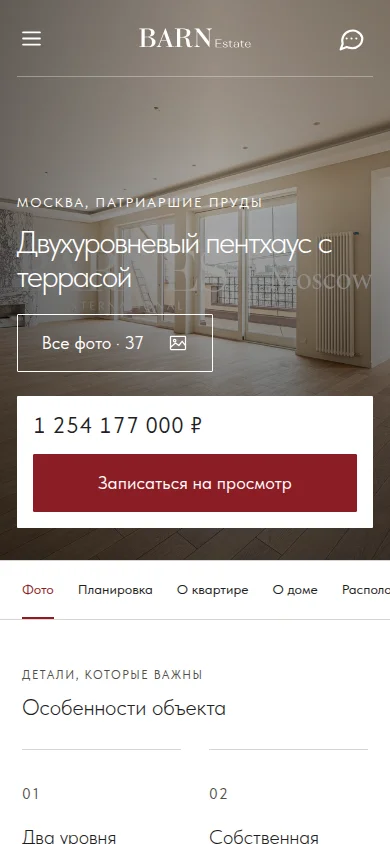
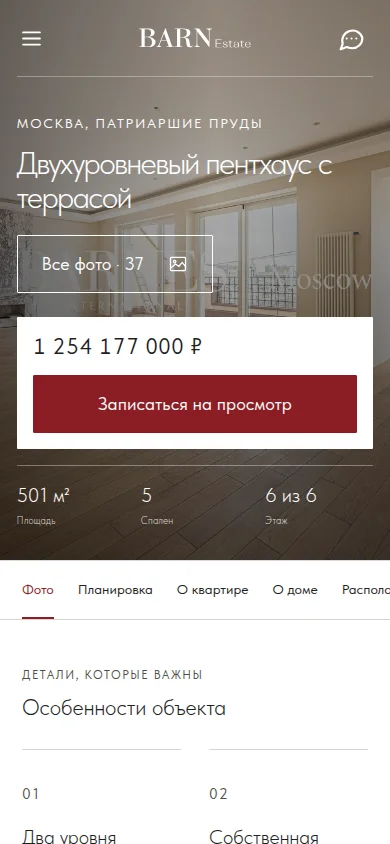
lot: publish resort-style hero property facts

diff --git a/stranitsa-lota/hero-options/index.html b/stranitsa-lota/hero-options/index.html
@@ -1,1 +1,1 @@
-<!doctype html><html lang="ru"><head><meta charset="utf-8"><meta name="viewport" content="width=device-width,initial-scale=1"><meta name="robots" content="noindex,nofollow"><title>Варианты херо — BARN Estate</title><style>@font-face{font-family:Tilda Sans;src:url('../fonts/TildaSans-Light.woff2') format('woff2');font-weight:300;font-display:swap}@font-face{font-family:Tilda Sans;src:url('../fonts/TildaSans-Regular.woff2') format('woff2');font-weight:400;font-display:swap}*{box-sizing:border-box}body{margin:0;color:#1e1e1e;background:#fff;font:300 18px/1.5 'Tilda Sans',Arial,sans-serif}a{color:inherit}header,main{max-width:1920px;margin:auto;padding-inline:clamp(24px,calc(-26.66667px + 6.59722vw),100px)}header{display:flex;align-items:center;justify-content:space-between;gap:24px;padding-block:28px;border-bottom:1px solid #d8d6d2}header img{width:172px;height:48px}header a:last-child{font-size:15px;text-underline-offset:4px}main{padding-block:72px 100px}h1{font-size:44px;line-height:1.2;font-weight:300;max-width:920px;margin:0}main>p{font-size:22px;line-height:33px;color:#4f4d49;max-width:970px;margin:24px 0 0}.eyebrow{font-size:14px;font-weight:400;letter-spacing:.12em;text-transform:uppercase;color:#4f4d49;margin:0}.quick-links{display:flex;gap:12px;flex-wrap:wrap;margin:32px 0 48px}.quick-links a{display:flex;align-items:center;justify-content:center;width:44px;height:44px;text-decoration:none;border:1px solid #8b8986;border-radius:1px;font-size:17px;font-weight:400}.cards{display:grid;grid-template-columns:1fr 1fr;gap:64px 40px}article{border-top:1px solid #d8d6d2;padding-top:24px;scroll-margin-top:24px}article:last-child{grid-column:1/-1;max-width:950px}.card-top{display:flex;align-items:center;justify-content:space-between;gap:20px}.recommend{font-size:13px;line-height:18px;color:#8b1d25}.cards h2{font-size:28px;line-height:1.2;font-weight:300;margin:20px 0 28px}.shots{display:grid;grid-template-columns:minmax(0,1fr) 88px;gap:12px;background:#f7f6f4;padding:12px;align-items:center}.shots img{width:100%;height:auto;display:block}.shots .phone{border:1px solid #d8d6d2}.description{font-size:20px;line-height:1.5;margin:24px 0 12px}.why{font-size:16px;line-height:1.5;color:#656462;margin:0 0 24px}.button{display:inline-flex;align-items:center;justify-content:space-between;gap:32px;min-height:70px;padding:16px 36px;background:#8b1d25;border:1px solid #8b1d25;border-radius:1px;font-size:17px;line-height:1.1;font-weight:400;color:#fff;text-decoration:none}.button span{font-size:22px}a:focus-visible{outline:2px solid #8b1d25;outline-offset:5px}@media(min-width:1441px){.button{font-size:19px;padding-inline:47px}}@media(max-width:900px){.cards{grid-template-columns:1fr;gap:48px}.cards article:last-child{grid-column:auto}}@media(max-width:540px){header,main{padding-inline:22px}header{padding-block:20px;gap:16px}header img{width:130px;height:36px}header a:last-child{font-size:13px}main{padding-block:48px}h1{font-size:22px}.eyebrow{font-size:12px}main>p{font-size:15px;line-height:21px;margin-top:16px}.quick-links{margin-bottom:32px}.cards h2{font-size:22px;margin-block:16px 24px}.shots{display:block;padding:0}.shots .phone{display:none}.description{font-size:17px;margin-top:20px}.why{font-size:15px}.button{width:100%;min-height:58px;padding:14px 24px;font-size:18px}}@media(prefers-reduced-motion:reduce){*{scroll-behavior:auto!important}}</style></head><body><header><a href="../"><img src="../kit/assets/logo.svg" alt="BARN Estate" width="172" height="48"></a><a href="../">К странице лота</a></header><main><p class="eyebrow" style="margin-bottom:24px">Страница лота · выбор первого экрана</p><h1>Пять вариантов херо с крупной фотографией</h1><p>Фотография занимает всю ширину. У варианта №3 высота совпадает с главной страницей на всех брейкпоинтах. Шрифты, цвета и кнопки — из нашего UI-кита.</p><nav class="quick-links" aria-label="Варианты херо"><a href="#variant-1" aria-label="Вариант 1">01</a><a href="#variant-2" aria-label="Вариант 2">02</a><a href="#variant-3" aria-label="Вариант 3">03</a><a href="#variant-4" aria-label="Вариант 4">04</a><a href="#variant-5" aria-label="Вариант 5">05</a></nav><div class="cards"><article id="variant-1"><div class="card-top"><p class="eyebrow">Вариант 01</p><span class="recommend">Рекомендую</span></div><h2>Текст поверх фотографии</h2><a class="shots" href="../?hero=1&amp;v=hero-options-20261110" aria-label="Открыть вариант 1: Текст поверх фотографии"><img src="previews/1-desktop.webp" width="1440" height="900" alt="Вариант 1 на компьютере" loading="lazy"><img class="phone" src="previews/1-mobile.webp" width="390" height="844" alt="Вариант 1 на телефоне" loading="lazy"></a><p class="description">Название и описание слева, цена и запись справа. Максимум фотографии и минимум отдельных панелей.</p><p class="why">Спокойный и универсальный вариант.</p><a class="button" href="../?hero=1&amp;v=hero-options-20261110">Открыть вариант 1<span aria-hidden="true">↗</span></a></article><article id="variant-2"><div class="card-top"><p class="eyebrow">Вариант 02</p></div><h2>Белая карточка</h2><a class="shots" href="../?hero=2&amp;v=hero-options-20261110" aria-label="Открыть вариант 2: Белая карточка"><img src="previews/2-desktop.webp" width="1440" height="900" alt="Вариант 2 на компьютере" loading="lazy"><img class="phone" src="previews/2-mobile.webp" width="390" height="844" alt="Вариант 2 на телефоне" loading="lazy"></a><p class="description">Фотография продолжается за карточкой с ценой, параметрами и брокером. На телефоне карточка становится компактной.</p><p class="why">Самый привычный сценарий выбора объекта.</p><a class="button" href="../?hero=2&amp;v=hero-options-20261110">Открыть вариант 2<span aria-hidden="true">↗</span></a></article><article id="variant-3"><div class="card-top"><p class="eyebrow">Вариант 03</p></div><h2>Крупный заголовок и белая полоса</h2><a class="shots" href="../?hero=3&amp;v=hero-kit-20261110" aria-label="Открыть вариант 3: Крупный заголовок и белая полоса"><img src="previews/3-desktop.webp?v=hero-kit" width="1440" height="900" alt="Вариант 3 на компьютере" loading="lazy"><img class="phone" src="previews/3-mobile.webp?v=hero-kit" width="390" height="844" alt="Вариант 3 на телефоне" loading="lazy"></a><p class="description">Крупный заголовок и кнопка всех фотографий внизу кадра. Цена, параметры и запись собраны в компактную белую полосу.</p><p class="why">Больше воздуха, одна основная кнопка и спокойная строка с параметрами.</p><a class="button" href="../?hero=3&amp;v=hero-kit-20261110">Открыть вариант 3<span aria-hidden="true">↗</span></a></article><article id="variant-4"><div class="card-top"><p class="eyebrow">Вариант 04</p></div><h2>Композиция по центру</h2><a class="shots" href="../?hero=4&amp;v=hero-options-20261110" aria-label="Открыть вариант 4: Композиция по центру"><img src="previews/4-desktop.webp" width="1440" height="900" alt="Вариант 4 на компьютере" loading="lazy"><img class="phone" src="previews/4-mobile.webp" width="390" height="844" alt="Вариант 4 на телефоне" loading="lazy"></a><p class="description">Название, описание и галерея собраны по центральной оси. Цена и просмотр — ниже, на той же оси.</p><p class="why">Подходит для акцентного архитектурного или интерьерного кадра.</p><a class="button" href="../?hero=4&amp;v=hero-options-20261110">Открыть вариант 4<span aria-hidden="true">↗</span></a></article><article id="variant-5"><div class="card-top"><p class="eyebrow">Вариант 05</p></div><h2>Лента кадров</h2><a class="shots" href="../?hero=5&amp;v=hero-options-20261110" aria-label="Открыть вариант 5: Лента кадров"><img src="previews/5-desktop.webp" width="1440" height="900" alt="Вариант 5 на компьютере" loading="lazy"><img class="phone" src="previews/5-mobile.webp" width="390" height="844" alt="Вариант 5 на телефоне" loading="lazy"></a><p class="description">Полноэкранная фотография с тремя миниатюрами для переключения. Название и стоимость остаются поверх изображения.</p><p class="why">Позволяет начать изучение квартиры прямо с первого экрана.</p><a class="button" href="../?hero=5&amp;v=hero-options-20261110">Открыть вариант 5<span aria-hidden="true">↗</span></a></article></div></main></body></html>
+<!doctype html><html lang="ru"><head><meta charset="utf-8"><meta name="viewport" content="width=device-width,initial-scale=1"><meta name="robots" content="noindex,nofollow"><title>Варианты херо — BARN Estate</title><style>@font-face{font-family:Tilda Sans;src:url('../fonts/TildaSans-Light.woff2') format('woff2');font-weight:300;font-display:swap}@font-face{font-family:Tilda Sans;src:url('../fonts/TildaSans-Regular.woff2') format('woff2');font-weight:400;font-display:swap}*{box-sizing:border-box}body{margin:0;color:#1e1e1e;background:#fff;font:300 18px/1.5 'Tilda Sans',Arial,sans-serif}a{color:inherit}header,main{max-width:1920px;margin:auto;padding-inline:clamp(24px,calc(-26.66667px + 6.59722vw),100px)}header{display:flex;align-items:center;justify-content:space-between;gap:24px;padding-block:28px;border-bottom:1px solid #d8d6d2}header img{width:172px;height:48px}header a:last-child{font-size:15px;text-underline-offset:4px}main{padding-block:72px 100px}h1{font-size:44px;line-height:1.2;font-weight:300;max-width:920px;margin:0}main>p{font-size:22px;line-height:33px;color:#4f4d49;max-width:970px;margin:24px 0 0}.eyebrow{font-size:14px;font-weight:400;letter-spacing:.12em;text-transform:uppercase;color:#4f4d49;margin:0}.quick-links{display:flex;gap:12px;flex-wrap:wrap;margin:32px 0 48px}.quick-links a{display:flex;align-items:center;justify-content:center;width:44px;height:44px;text-decoration:none;border:1px solid #8b8986;border-radius:1px;font-size:17px;font-weight:400}.cards{display:grid;grid-template-columns:1fr 1fr;gap:64px 40px}article{border-top:1px solid #d8d6d2;padding-top:24px;scroll-margin-top:24px}article:last-child{grid-column:1/-1;max-width:950px}.card-top{display:flex;align-items:center;justify-content:space-between;gap:20px}.recommend{font-size:13px;line-height:18px;color:#8b1d25}.cards h2{font-size:28px;line-height:1.2;font-weight:300;margin:20px 0 28px}.shots{display:grid;grid-template-columns:minmax(0,1fr) 88px;gap:12px;background:#f7f6f4;padding:12px;align-items:center}.shots img{width:100%;height:auto;display:block}.shots .phone{border:1px solid #d8d6d2}.description{font-size:20px;line-height:1.5;margin:24px 0 12px}.why{font-size:16px;line-height:1.5;color:#656462;margin:0 0 24px}.button{display:inline-flex;align-items:center;justify-content:space-between;gap:32px;min-height:70px;padding:16px 36px;background:#8b1d25;border:1px solid #8b1d25;border-radius:1px;font-size:17px;line-height:1.1;font-weight:400;color:#fff;text-decoration:none}.button span{font-size:22px}a:focus-visible{outline:2px solid #8b1d25;outline-offset:5px}@media(min-width:1441px){.button{font-size:19px;padding-inline:47px}}@media(max-width:900px){.cards{grid-template-columns:1fr;gap:48px}.cards article:last-child{grid-column:auto}}@media(max-width:540px){header,main{padding-inline:22px}header{padding-block:20px;gap:16px}header img{width:130px;height:36px}header a:last-child{font-size:13px}main{padding-block:48px}h1{font-size:22px}.eyebrow{font-size:12px}main>p{font-size:15px;line-height:21px;margin-top:16px}.quick-links{margin-bottom:32px}.cards h2{font-size:22px;margin-block:16px 24px}.shots{display:block;padding:0}.shots .phone{display:none}.description{font-size:17px;margin-top:20px}.why{font-size:15px}.button{width:100%;min-height:58px;padding:14px 24px;font-size:18px}}@media(prefers-reduced-motion:reduce){*{scroll-behavior:auto!important}}</style></head><body><header><a href="../"><img src="../kit/assets/logo.svg" alt="BARN Estate" width="172" height="48"></a><a href="../">К странице лота</a></header><main><p class="eyebrow" style="margin-bottom:24px">Страница лота · выбор первого экрана</p><h1>Пять вариантов херо с крупной фотографией</h1><p>Фотография занимает всю ширину. У варианта №3 высота совпадает с главной страницей на всех брейкпоинтах. Шрифты, цвета и кнопки — из нашего UI-кита.</p><nav class="quick-links" aria-label="Варианты херо"><a href="#variant-1" aria-label="Вариант 1">01</a><a href="#variant-2" aria-label="Вариант 2">02</a><a href="#variant-3" aria-label="Вариант 3">03</a><a href="#variant-4" aria-label="Вариант 4">04</a><a href="#variant-5" aria-label="Вариант 5">05</a></nav><div class="cards"><article id="variant-1"><div class="card-top"><p class="eyebrow">Вариант 01</p><span class="recommend">Рекомендую</span></div><h2>Текст поверх фотографии</h2><a class="shots" href="../?hero=1&amp;v=hero-options-20261110" aria-label="Открыть вариант 1: Текст поверх фотографии"><img src="previews/1-desktop.webp" width="1440" height="900" alt="Вариант 1 на компьютере" loading="lazy"><img class="phone" src="previews/1-mobile.webp" width="390" height="844" alt="Вариант 1 на телефоне" loading="lazy"></a><p class="description">Название и описание слева, цена и запись справа. Максимум фотографии и минимум отдельных панелей.</p><p class="why">Спокойный и универсальный вариант.</p><a class="button" href="../?hero=1&amp;v=hero-options-20261110">Открыть вариант 1<span aria-hidden="true">↗</span></a></article><article id="variant-2"><div class="card-top"><p class="eyebrow">Вариант 02</p></div><h2>Белая карточка</h2><a class="shots" href="../?hero=2&amp;v=hero-options-20261110" aria-label="Открыть вариант 2: Белая карточка"><img src="previews/2-desktop.webp" width="1440" height="900" alt="Вариант 2 на компьютере" loading="lazy"><img class="phone" src="previews/2-mobile.webp" width="390" height="844" alt="Вариант 2 на телефоне" loading="lazy"></a><p class="description">Фотография продолжается за карточкой с ценой, параметрами и брокером. На телефоне карточка становится компактной.</p><p class="why">Самый привычный сценарий выбора объекта.</p><a class="button" href="../?hero=2&amp;v=hero-options-20261110">Открыть вариант 2<span aria-hidden="true">↗</span></a></article><article id="variant-3"><div class="card-top"><p class="eyebrow">Вариант 03</p></div><h2>Крупный заголовок и курортная подача характеристик</h2><a class="shots" href="../?hero=3&amp;v=resort-facts-20261110" aria-label="Открыть вариант 3: Крупный заголовок и курортная подача характеристик"><img src="previews/3-desktop.webp?v=resort-facts" width="1440" height="900" alt="Вариант 3 на компьютере" loading="lazy"><img class="phone" src="previews/3-mobile.webp?v=resort-facts" width="390" height="844" alt="Вариант 3 на телефоне" loading="lazy"></a><p class="description">Крупный заголовок, компактная цена и запись. Ниже — крупные значения характеристик с короткими подписями прямо на фотографии, как в наших курортных лендингах.</p><p class="why">Характеристики оформлены по приёму херо «Кедров»: значение сверху, подпись снизу, тонкая линия.</p><a class="button" href="../?hero=3&amp;v=resort-facts-20261110">Открыть вариант 3<span aria-hidden="true">↗</span></a></article><article id="variant-4"><div class="card-top"><p class="eyebrow">Вариант 04</p></div><h2>Композиция по центру</h2><a class="shots" href="../?hero=4&amp;v=hero-options-20261110" aria-label="Открыть вариант 4: Композиция по центру"><img src="previews/4-desktop.webp" width="1440" height="900" alt="Вариант 4 на компьютере" loading="lazy"><img class="phone" src="previews/4-mobile.webp" width="390" height="844" alt="Вариант 4 на телефоне" loading="lazy"></a><p class="description">Название, описание и галерея собраны по центральной оси. Цена и просмотр — ниже, на той же оси.</p><p class="why">Подходит для акцентного архитектурного или интерьерного кадра.</p><a class="button" href="../?hero=4&amp;v=hero-options-20261110">Открыть вариант 4<span aria-hidden="true">↗</span></a></article><article id="variant-5"><div class="card-top"><p class="eyebrow">Вариант 05</p></div><h2>Лента кадров</h2><a class="shots" href="../?hero=5&amp;v=hero-options-20261110" aria-label="Открыть вариант 5: Лента кадров"><img src="previews/5-desktop.webp" width="1440" height="900" alt="Вариант 5 на компьютере" loading="lazy"><img class="phone" src="previews/5-mobile.webp" width="390" height="844" alt="Вариант 5 на телефоне" loading="lazy"></a><p class="description">Полноэкранная фотография с тремя миниатюрами для переключения. Название и стоимость остаются поверх изображения.</p><p class="why">Позволяет начать изучение квартиры прямо с первого экрана.</p><a class="button" href="../?hero=5&amp;v=hero-options-20261110">Открыть вариант 5<span aria-hidden="true">↗</span></a></article></div></main></body></html>

diff --git a/stranitsa-lota/hero-variants.css b/stranitsa-lota/hero-variants.css
@@ -207,10 +207,10 @@ body[data-hero-variant="3"] .lot-hero__actions a {display:none}
 body[data-hero-variant="3"] .lot-hero__actions .button {min-height:70px;padding:16px 36px;border:1px solid #fff;background:transparent;color:#fff;font-size:17px;line-height:1.1;font-weight:400;gap:24px}
 body[data-hero-variant="3"] .lot-offer {
   position:relative;flex:none;inset:auto;
-  display:grid;grid-template-columns:285px minmax(0,1fr) 428px;
+  display:grid;grid-template-columns:285px 428px;
   align-items:center;gap:0;
-  width:calc(100% - max(var(--hero-inset),calc((100vw - 1920px)/2))*2);
-  margin:0 max(var(--hero-inset),calc((100vw - 1920px)/2)) var(--kit-hero-bottom);
+  width:713px;max-width:calc(100% - max(var(--hero-inset),calc((100vw - 1920px)/2))*2);
+  margin:0 max(var(--hero-inset),calc((100vw - 1920px)/2)) 24px;
   padding:0;border:0;border-radius:1px;background:#fff;color:var(--ink);
 }
 body[data-hero-variant="3"] .lot-offer>div:first-of-type {padding:16px 24px}
@@ -218,9 +218,6 @@ body[data-hero-variant="3"] .lot-offer .lot-price {font-size:24px;line-height:1.
 body[data-hero-variant="3"] .lot-price-per,
 body[data-hero-variant="3"] .lot-offer__meta,
 body[data-hero-variant="3"] .lot-offer__actions .text-link {display:none}
-body[data-hero-variant="3"] .lot-offer__facts {display:flex;align-items:center;justify-content:space-evenly;gap:20px;padding:12px 20px;border:0;border-left:1px solid var(--line)}
-body[data-hero-variant="3"] .lot-offer__facts dt {font-size:12px;line-height:16px;color:var(--muted)}
-body[data-hero-variant="3"] .lot-offer__facts dd {margin-top:4px;font-size:17px;line-height:20px;color:var(--ink)}
 body[data-hero-variant="3"] .lot-offer__actions {display:flex;align-self:stretch;margin:0;width:100%}
 body[data-hero-variant="3"] .lot-offer__actions .button {width:100%;min-height:70px;padding:16px 36px;font-size:17px;line-height:1.1;justify-content:center;gap:24px}
 @media(max-width:1440px){body[data-hero-variant="3"] .lot-hero {height:820px}}
@@ -229,21 +226,19 @@ body[data-hero-variant="3"] .lot-offer__actions .button {width:100%;min-height:7
   body[data-hero-variant="3"] {--kit-hero-bottom:72px}
   body[data-hero-variant="3"] .lot-hero__actions .button,
   body[data-hero-variant="3"] .lot-offer__actions .button {font-size:19px;padding-inline:47px}
-  body[data-hero-variant="3"] .lot-offer {grid-template-columns:300px minmax(0,1fr) 428px}
+  body[data-hero-variant="3"] .lot-offer {grid-template-columns:300px 428px;width:728px}
 }
 @media(min-width:1441px) and (max-width:1919px), (min-width:1920px) and (max-height:1000px){body[data-hero-variant="3"] .lot-hero {height:760px}}
 @media(min-width:1921px){body[data-hero-variant="3"] {--hero-inset:0px}}
 @media(max-width:1200px){
-  body[data-hero-variant="3"] .lot-offer {grid-template-columns:285px minmax(0,1fr) 320px}
-  body[data-hero-variant="3"] .lot-offer__facts>div:nth-child(n+3){display:none}
+  body[data-hero-variant="3"] .lot-offer {grid-template-columns:285px 320px;width:605px}
 }
 @media(max-width:1024px){
   body[data-hero-variant="3"] {--kit-hero-bottom:48px}
   body[data-hero-variant="3"] .lot-hero__copy {display:block}
   body[data-hero-variant="3"] .lot-hero__copy .eyebrow {margin-bottom:16px}
   body[data-hero-variant="3"] .lot-hero__actions {margin-top:20px}
-  body[data-hero-variant="3"] .lot-offer {grid-template-columns:minmax(0,1fr) 320px}
-  body[data-hero-variant="3"] .lot-offer__facts {display:none}
+  body[data-hero-variant="3"] .lot-offer {grid-template-columns:minmax(0,1fr) 320px;width:100%}
 }
 @media(max-width:768px){
   body[data-hero-variant="3"] {--hero-inset:calc(8.94118px + 1.96078vw);--kit-hero-bottom:40px}
@@ -259,4 +254,33 @@ body[data-hero-variant="3"] .lot-offer__actions .button {width:100%;min-height:7
   body[data-hero-variant="3"] .lot-offer>div:first-of-type {padding:0 0 16px}
   body[data-hero-variant="3"] .lot-offer .lot-price {font-size:22px;line-height:1.2}
   body[data-hero-variant="3"] .lot-offer__actions .button {min-height:58px;padding:16px 24px;font-size:18px;line-height:19.8px}
+}
+
+/* Property facts follow our Kedry/Radient resort landing: value first, caption below. */
+body[data-hero-variant="3"] .lot-hero__facts {
+  position:relative;z-index:1;
+  display:grid;grid-template-columns:repeat(var(--hero-fact-count,4),minmax(0,max-content));
+  justify-content:space-between;gap:28px;
+  width:calc(100% - max(var(--hero-inset),calc((100vw - 1920px)/2))*2);
+  margin:0 max(var(--hero-inset),calc((100vw - 1920px)/2)) var(--kit-hero-bottom);
+  padding:24px 0 0;border:0;border-top:1px solid #ffffff59;
+}
+body[data-hero-variant="3"] .lot-hero__facts>div {display:flex;flex-direction:column;gap:4px;min-width:0;padding:0}
+body[data-hero-variant="3"] .lot-hero__facts dd {order:0;margin:0;font-size:27px;font-weight:300;line-height:1.3;color:#fff;white-space:nowrap}
+body[data-hero-variant="3"] .lot-hero__facts dt {order:1;margin:0;font-size:11px;font-weight:300;line-height:1.6;letter-spacing:.02em;color:#ffffffcc}
+body[data-hero-variant="3"] .lot-hero:not([data-has-hero-facts]) .lot-offer {margin-bottom:var(--kit-hero-bottom)}
+@media(min-width:1921px){
+  body[data-hero-variant="3"] .lot-hero__facts {padding-top:32px}
+  body[data-hero-variant="3"] .lot-hero__facts dd {font-size:clamp(30px,1.25vw,40px)}
+  body[data-hero-variant="3"] .lot-hero__facts dt {font-size:clamp(13px,.6vw,18px)}
+}
+@media(max-width:1024px){body[data-hero-variant="3"] .lot-hero__facts dd {font-size:23px}}
+@media(max-width:768px){
+  body[data-hero-variant="3"] .lot-hero__facts {grid-template-columns:repeat(var(--hero-fact-mobile-count,3),minmax(0,1fr));gap:16px;padding-top:16px}
+  body[data-hero-variant="3"] .lot-hero__facts>[data-hero-fact-secondary] {display:none}
+  body[data-hero-variant="3"] .lot-offer {margin-bottom:16px}
+}
+@media(max-width:540px){
+  body[data-hero-variant="3"] .lot-hero__facts dd {font-size:20px}
+  body[data-hero-variant="3"] .lot-hero__facts dt {font-size:10px}
 }

diff --git a/stranitsa-lota/index.html b/stranitsa-lota/index.html
@@ -1,7 +1,7 @@
 <!DOCTYPE html><html lang="ru"><head><meta charset="utf-8"><meta name="viewport" content="width=device-width,initial-scale=1"><meta name="robots" content="noindex,nofollow"><meta name="description" content="Двухуровневый пентхаус с террасой в районе Патриарших прудов."><meta property="og:title" content="Двухуровневый пентхаус с террасой — BARN Estate"><meta property="og:description" content="Двухуровневый пентхаус с террасой в районе Патриарших прудов."><meta property="og:image" content="assets/source/033e8fa88f8a.jpg"><meta name="theme-color" content="#ffffff"><title>Двухуровневый пентхаус с террасой — BARN Estate</title>
 <link rel="icon" href="kit/assets/logo.svg"><link rel="preload" href="fonts/TildaSans-Light.woff2" as="font" type="font/woff2" crossorigin="">
-<link rel="stylesheet" href="kit/vendor/media-header.css"><link rel="stylesheet" href="kit/vendor/header-navigation.css?v=f7248c22fe"><link rel="stylesheet" href="kit/vendor/footer.css?v=3d9a33bacd"><link rel="stylesheet" href="lot-page.css?v=843f29fce6"><link rel="stylesheet" href="hero-variants.css?v=68b17cdde9"><link rel="stylesheet" href="kit/vendor/page-breadcrumbs.css?v=7a58ed93dc">
-<script defer="" src="lot-data.js?v=390b9bc4a8"></script><script defer="" src="lot-page.js?v=8e79f7afed"></script><script defer="" src="kit/vendor/media-header.js"></script><script defer="" src="kit/vendor/header-navigation.js"></script><script defer="" src="kit/vendor/page-breadcrumbs.js?v=9ba4a0fec8" data-page="lot"></script></head>
+<link rel="stylesheet" href="kit/vendor/media-header.css"><link rel="stylesheet" href="kit/vendor/header-navigation.css?v=f7248c22fe"><link rel="stylesheet" href="kit/vendor/footer.css?v=3d9a33bacd"><link rel="stylesheet" href="lot-page.css?v=843f29fce6"><link rel="stylesheet" href="hero-variants.css?v=87c59fb236"><link rel="stylesheet" href="kit/vendor/page-breadcrumbs.css?v=7a58ed93dc">
+<script defer="" src="lot-data.js?v=390b9bc4a8"></script><script defer="" src="lot-page.js?v=0016b40f36"></script><script defer="" src="kit/vendor/media-header.js"></script><script defer="" src="kit/vendor/header-navigation.js"></script><script defer="" src="kit/vendor/page-breadcrumbs.js?v=9ba4a0fec8" data-page="lot"></script></head>
 <body class="lot-page"><a class="skip-link" href="#main">К содержанию лота</a>
 <header class="site-header" data-v-6d58c4a7="" data-v-63dbb988=""><div class="site-header__inner base-container" data-v-63dbb988=""><div class="site-header__top" data-v-63dbb988=""><div class="site-header__left" data-v-63dbb988=""><button type="button" class="site-header__icon-btn" aria-expanded="false" aria-controls="site-mobile-menu" aria-label="Открыть меню" data-v-63dbb988=""><span class="ui-icon ui-icon-current site-header__icon" data-v-63dbb988="" data-v-8bd2f545=""><svg xmlns="http://www.w3.org/2000/svg" width="24" height="24" viewBox="0 0 24 24" fill="none" stroke="currentColor" stroke-width="1.5" stroke-linecap="round">
   <path d="M5 7h14"></path>

diff --git a/stranitsa-lota/lot-page.js b/stranitsa-lota/lot-page.js
@@ -126,7 +126,21 @@
     offer.append(offerActions);
     if (data.demo) offer.append(el('p', 'Архивный пример. Актуальную цену и доступность уточните у брокера.', 'lot-offer__notice'));
     hero.append(visual, offer);
-    if (document.body.dataset.heroVariant === '3') hero.insertBefore(copy, offer);
+    if (document.body.dataset.heroVariant === '3') {
+      hero.insertBefore(copy, offer);
+      const metrics = $('.lot-offer__facts', offer);
+      if (metrics?.childElementCount) {
+        metrics.classList.add('lot-hero__facts');
+        metrics.setAttribute('aria-label', 'Основные характеристики объекта');
+        const secondary = [...metrics.children].find(row => $('dt', row)?.textContent === 'Отделка');
+        const hideSecondary = secondary && metrics.childElementCount > 1;
+        if (hideSecondary) secondary.dataset.heroFactSecondary = '';
+        metrics.style.setProperty('--hero-fact-count', metrics.childElementCount);
+        metrics.style.setProperty('--hero-fact-mobile-count', metrics.childElementCount - (hideSecondary ? 1 : 0));
+        hero.dataset.hasHeroFacts = 'true';
+        hero.append(metrics);
+      } else metrics?.remove();
+    }
     main.append(hero);
     if (document.body.dataset.heroVariant === '5') {
       const filmstrip = el('div', null, 'hero-filmstrip'); filmstrip.setAttribute('aria-label', 'Выбрать фотографию первого экрана');

diff --git a/README.md b/README.md
@@ -50,7 +50,7 @@
 
 - [Медиа — визуальное превью](https://daniilterekh-prog.github.io/barn-estate-homepage-clone/media/?v=moscow-real-photo-20261103) — полная сверка типографики по текстовым ролям главной, включая формы и меню; 8 бровей, единые отступы, текстовые роли и карточки; согласованный hero и выпадающее меню; заголовки секций прописными, H1 без капса по размеру узловых страниц; плавающий эксперт с актуальным квизом и фото Руслана с главной; отдельный повторный блок дайджеста удалён. Новое изображение изданий: один журнал-каталог с чёрным названием BARN Estate. В карточке «В фокусе — Москва» — сдержанная архитектура и плавная маска затемнения; скругления прямоугольных элементов≤1px, аватар Руслана и стрелки слайдера круглые. У текстовых действий добавлены стрелки и hover/клавиатурный фокус. Фоны консультации и изданий — до краёв страницы, контент на общей сетке. Сердечко и круглый счётчик совпадают с узлом «Курортная». В обеих карточках аналитики элитной Москвы заIквартал2026 — реальная вечерняя панорама из официальной галереи Capital Towers вместо выдуманного сочетания ориентиров. На телефонах до540px пять блоков перестроены по мобильному макету с сохранением кита; десктоп и библиотека сохранены. Экспорт 03.11.2026, формы не отправляются.
 
-- [Страница лота: №3 с типографикой херо кита и белой строкой параметров · 10.11.2026](https://daniilterekh-prog.github.io/barn-estate-homepage-clone/stranitsa-lota/hero-options/) — варианты на нашем UI-ките; №3 повторяет высоту главной, исправлены выпадающие меню хедера.
+- [Страница лота: характеристики по курортным херо · 10.11.2026](https://daniilterekh-prog.github.io/barn-estate-homepage-clone/stranitsa-lota/hero-options/) — варианты на нашем UI-ките; №3 повторяет высоту главной, исправлены выпадающие меню хедера.
 - [Страница лота: новая структура на UI-ките v1.0.6 ·10.11.2026](https://daniilterekh-prog.github.io/barn-estate-homepage-clone/stranitsa-lota/?v=structure-20261110) — особенности, планировка, квартира, дом, окружение, условия, брокер и похожие предложения. [Исходники и сохранённый кит](https://github.com/daniilterekh-prog/barnes-sites/tree/main/main-site/pages/lot). Старый макет Figma использован частично; приватный референс не публикуется.
 
 - [Коммерческая: UI-кит главной v1.0.0, 01.11.2026](kommercheskaya-nedvizhimost/HOME-KIT.md) — синхронизированное самодостаточное превью; рабочие исходники в barnes-sites/main-site/pages/commercial.

diff --git a/stranitsa-lota/README.md b/stranitsa-lota/README.md
@@ -1,4 +1,4 @@
-[Вариант 3: крупный заголовок херо и белая строка параметров · 10.11.2026](https://daniilterekh-prog.github.io/barn-estate-homepage-clone/stranitsa-lota/?hero=3&v=hero-kit-20261110). Высота главной сохранена; типографика, CTA и отступы сверены со страницами Медиа/Собственников. [Детали и проверки](https://github.com/daniilterekh-prog/barnes-sites/blob/main/main-site/pages/lot/HERO-OPTIONS.md).
+[Вариант 3: характеристики по курортным лендингам · 10.11.2026](https://daniilterekh-prog.github.io/barn-estate-homepage-clone/stranitsa-lota/?hero=3&v=resort-facts-20261110). Крупные значения и подписи на фотографии по примеру «Кедров», компактная цена и запись; сохранены Tilda Sans, роли H1/CTA и высота главной. [Источник и проверки](https://github.com/daniilterekh-prog/barnes-sites/blob/main/main-site/pages/lot/HERO-OPTIONS.md).
 
 # Общий шаблон лота BARN Estate
 
@@ -55,3 +55,6 @@ node main-site/pages/lot/export-page.cjs /новый/пустой/каталог
 `index.html` уже содержит отрендеренную структуру. `build-index.cjs` воспроизводит её тем же рендерером. Экспорт включает только самодостаточный runtime лота, исключает приватный референс, исследование, старые скрипты и отчёты. Исторические local/home-kit/lot-sections и старые verify-файлы не подключаются; прежние отчёты не подтверждают текущую версию.
 
 Боевой домен агентства этой задачей не обновляется. Для передачи разработчику действует постоянный путь `main-site/handoff/lot/` и публичный `handoff/lot/`; отдельный пакет здесь пока не создавался.
+
+
+[Локальное превью и инструкция запуска](https://github.com/daniilterekh-prog/barnes-sites/blob/main/main-site/pages/lot/README.md#local-preview).

diff --git a/PAGES.md b/PAGES.md
@@ -28,7 +28,7 @@
 | Курортная | [Превью](https://daniilterekh-prog.github.io/barn-estate-homepage-clone/kurortnaya/) | [Исходники](https://github.com/daniilterekh-prog/barnes-sites/tree/main/main-site/pages/resort/kit-2026-11-01) |
 | Каталог | [Превью](https://daniilterekh-prog.github.io/barn-estate-homepage-clone/katalog-nedvizhimosti/) | [Исходники](https://github.com/daniilterekh-prog/barnes-sites/tree/main/main-site/pages/catalog) |
 | Избранное | [Превью](https://daniilterekh-prog.github.io/barn-estate-homepage-clone/izbrannoe/) | [Исходники](https://github.com/daniilterekh-prog/barnes-sites/tree/main/main-site/pages/favorites) |
-| Страница лота · №3: крупный заголовок и белая строка | [Сравнение](https://daniilterekh-prog.github.io/barn-estate-homepage-clone/stranitsa-lota/hero-options/) | [Описание](https://github.com/daniilterekh-prog/barnes-sites/blob/main/main-site/pages/lot/HERO-OPTIONS.md) |
+| Страница лота · №3: характеристики по курортным херо | [Сравнение](https://daniilterekh-prog.github.io/barn-estate-homepage-clone/stranitsa-lota/hero-options/) | [Описание](https://github.com/daniilterekh-prog/barnes-sites/blob/main/main-site/pages/lot/HERO-OPTIONS.md) |
 | Страница лота · кит1.0.6, структура10.11 | [Превью](https://daniilterekh-prog.github.io/barn-estate-homepage-clone/stranitsa-lota/) | [Исходники](https://github.com/daniilterekh-prog/barnes-sites/tree/main/main-site/pages/lot) |
 
 Старые адреса `/`, `/barnes-moscow/` ведут на текущую главную; `international-latest.html` — на текущую зарубежную. Утверждённые Git-метки сохраняют исходные релизы.
